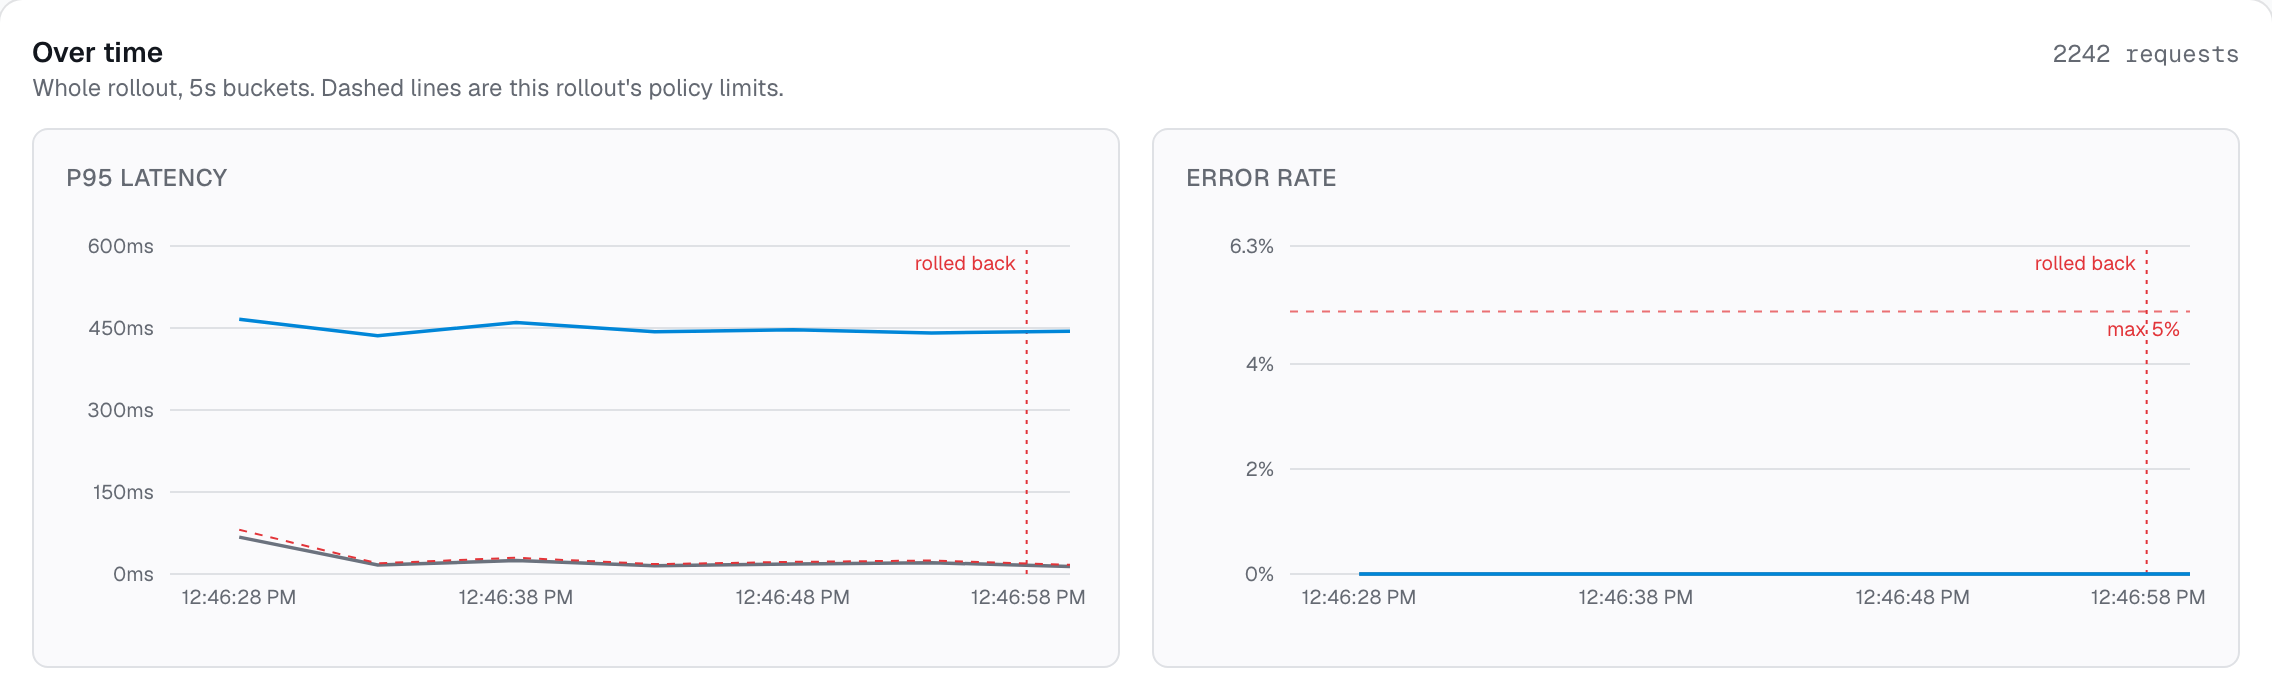
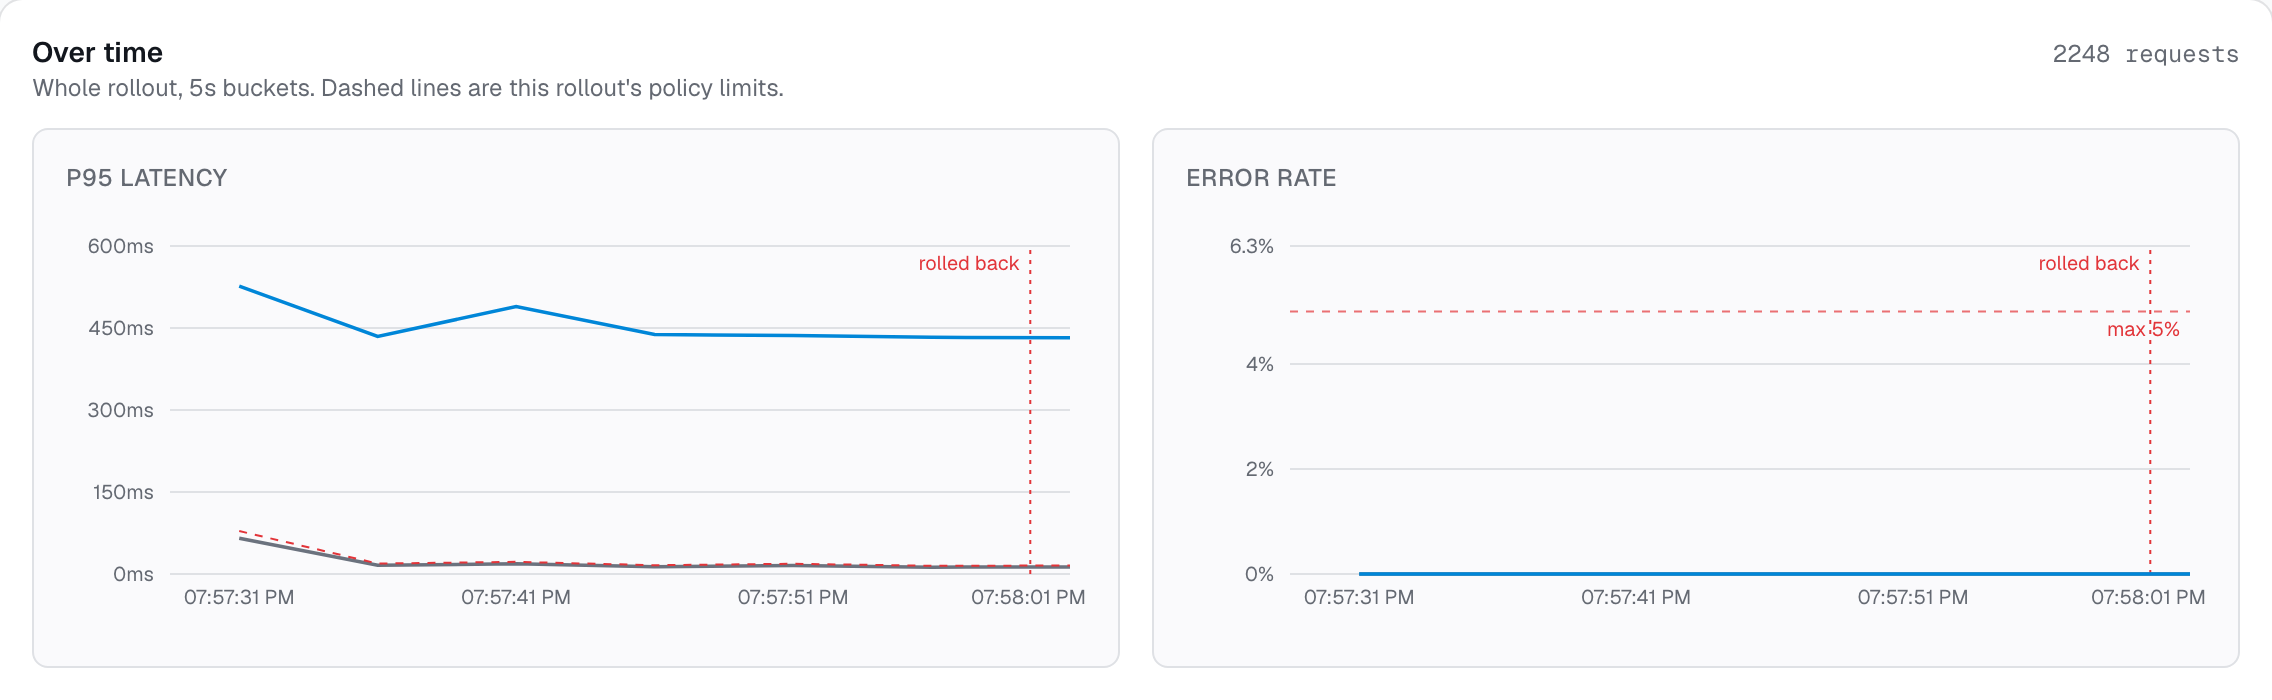
docs: recapture the evidence screenshots with drift and per-look levels
The policy table now shows feature_drift and the raised confidence level per look. The applied-policy panel and the rollout form gain the drift threshold (empty = off), and the README's check table and captions cover both features.

diff --git a/frontend/src/components/PolicyThresholds.tsx b/frontend/src/components/PolicyThresholds.tsx
@@ -24,8 +24,10 @@ export interface ThresholdField {
   max?: number;
   step: number;
   integer?: boolean;
-  get: (c: PolicyConfig) => number;
-  set: (c: PolicyConfig, v: number) => PolicyConfig;
+  /** Left empty, the check is switched off (sent as null). */
+  optional?: boolean;
+  get: (c: PolicyConfig) => number | null;
+  set: (c: PolicyConfig, v: number | null) => PolicyConfig;
 }
 
 export const GATE_FIELDS: ThresholdField[] = [
@@ -37,7 +39,7 @@ export const GATE_FIELDS: ThresholdField[] = [
     min: 0,
     step: 1,
     get: (c) => c.latency.p95_max_increase_percent,
-    set: (c, v) => ({ ...c, latency: { p95_max_increase_percent: v } }),
+    set: (c, v) => ({ ...c, latency: { p95_max_increase_percent: v ?? 0 } }),
   },
   {
     key: "errors",
@@ -48,7 +50,7 @@ export const GATE_FIELDS: ThresholdField[] = [
     max: 100,
     step: 0.5,
     get: (c) => c.reliability.max_error_rate_percent,
-    set: (c, v) => ({ ...c, reliability: { max_error_rate_percent: v } }),
+    set: (c, v) => ({ ...c, reliability: { max_error_rate_percent: v ?? 0 } }),
   },
   {
     key: "recall",
@@ -59,7 +61,19 @@ export const GATE_FIELDS: ThresholdField[] = [
     max: 1,
     step: 0.01,
     get: (c) => c.quality.minimum_recall,
-    set: (c, v) => ({ ...c, quality: { minimum_recall: v } }),
+    set: (c, v) => ({ ...c, quality: { minimum_recall: v ?? 0 } }),
+  },
+  {
+    key: "drift",
+    label: "Max feature drift (PSI)",
+    hint: "Canary inputs vs its training data, per feature. Empty switches it off.",
+    unit: "",
+    min: 0,
+    step: 0.05,
+    optional: true,
+    // Rollouts created before the drift check have no "drift" in their snapshot.
+    get: (c) => (c.drift as PolicyConfig["drift"] | undefined)?.max_feature_psi ?? null,
+    set: (c, v) => ({ ...c, drift: { max_feature_psi: v } }),
   },
 ];
 
@@ -73,7 +87,7 @@ export const EVIDENCE_FIELDS: ThresholdField[] = [
     step: 10,
     integer: true,
     get: (c) => c.minimum_requests,
-    set: (c, v) => ({ ...c, minimum_requests: v }),
+    set: (c, v) => ({ ...c, minimum_requests: v ?? 0 }),
   },
   {
     key: "evaluation_window_seconds",
@@ -84,7 +98,7 @@ export const EVIDENCE_FIELDS: ThresholdField[] = [
     step: 30,
     integer: true,
     get: (c) => c.evaluation_window_seconds,
-    set: (c, v) => ({ ...c, evaluation_window_seconds: v }),
+    set: (c, v) => ({ ...c, evaluation_window_seconds: v ?? 0 }),
   },
   {
     key: "confidence_level",
@@ -95,7 +109,7 @@ export const EVIDENCE_FIELDS: ThresholdField[] = [
     max: 0.999,
     step: 0.01,
     get: (c) => c.confidence_level,
-    set: (c, v) => ({ ...c, confidence_level: v }),
+    set: (c, v) => ({ ...c, confidence_level: v ?? 0 }),
   },
   {
     key: "minimum_labeled_samples",
@@ -106,7 +120,7 @@ export const EVIDENCE_FIELDS: ThresholdField[] = [
     step: 5,
     integer: true,
     get: (c) => c.minimum_labeled_samples,
-    set: (c, v) => ({ ...c, minimum_labeled_samples: v }),
+    set: (c, v) => ({ ...c, minimum_labeled_samples: v ?? 0 }),
   },
   {
     key: "minimum_label_coverage",
@@ -117,7 +131,7 @@ export const EVIDENCE_FIELDS: ThresholdField[] = [
     max: 1,
     step: 0.05,
     get: (c) => c.minimum_label_coverage,
-    set: (c, v) => ({ ...c, minimum_label_coverage: v }),
+    set: (c, v) => ({ ...c, minimum_label_coverage: v ?? 0 }),
   },
   {
     key: "minimum_positive_labels",
@@ -128,7 +142,7 @@ export const EVIDENCE_FIELDS: ThresholdField[] = [
     step: 5,
     integer: true,
     get: (c) => c.minimum_positive_labels,
-    set: (c, v) => ({ ...c, minimum_positive_labels: v }),
+    set: (c, v) => ({ ...c, minimum_positive_labels: v ?? 0 }),
   },
   {
     key: "label_maturity_seconds",
@@ -139,7 +153,7 @@ export const EVIDENCE_FIELDS: ThresholdField[] = [
     step: 15,
     integer: true,
     get: (c) => c.label_maturity_seconds,
-    set: (c, v) => ({ ...c, label_maturity_seconds: v }),
+    set: (c, v) => ({ ...c, label_maturity_seconds: v ?? 0 }),
   },
   {
     key: "max_inconclusive_retries",
@@ -150,7 +164,7 @@ export const EVIDENCE_FIELDS: ThresholdField[] = [
     step: 1,
     integer: true,
     get: (c) => c.max_inconclusive_retries,
-    set: (c, v) => ({ ...c, max_inconclusive_retries: v }),
+    set: (c, v) => ({ ...c, max_inconclusive_retries: v ?? 0 }),
   },
 ];
 
@@ -158,12 +172,14 @@ const ALL_FIELDS = [...GATE_FIELDS, ...EVIDENCE_FIELDS];
 
 export type ThresholdDrafts = Record<string, string>;
 
-function parse(field: ThresholdField, raw: string): number | null {
-  if (raw.trim() === "") return null;
+/** The typed value, null for an optional field left empty (switched off), or
+ * undefined when it isn't valid. */
+function parse(field: ThresholdField, raw: string): number | null | undefined {
+  if (raw.trim() === "") return field.optional ? null : undefined;
   const value = Number(raw);
-  if (!Number.isFinite(value)) return null;
-  if (field.integer && !Number.isInteger(value)) return null;
-  if (value < field.min || (field.max != null && value > field.max)) return null;
+  if (!Number.isFinite(value)) return undefined;
+  if (field.integer && !Number.isInteger(value)) return undefined;
+  if (value < field.min || (field.max != null && value > field.max)) return undefined;
   return value;
 }
 
@@ -177,7 +193,7 @@ export function resolveThresholds(defaults: PolicyConfig, drafts: ThresholdDraft
     const raw = drafts[field.key];
     if (raw == null) continue;
     const value = parse(field, raw);
-    if (value == null) {
+    if (value === undefined) {
       invalid.add(field.key);
       continue;
     }
@@ -213,7 +229,7 @@ function FieldRow({
           {field.label}
         </Label>
         {changed ? (
-          <span className="font-mono text-[10px] text-muted-foreground tabular">default {fallback}</span>
+          <span className="font-mono text-[10px] text-muted-foreground tabular">default {fallback ?? "off"}</span>
         ) : null}
       </div>
       <div className="relative">
@@ -221,7 +237,8 @@ function FieldRow({
           id={id}
           inputMode="decimal"
           className={cn("h-8 pr-9 font-mono text-sm tabular", changed && "border-canary/60")}
-          value={drafts[field.key] ?? String(fallback)}
+          value={drafts[field.key] ?? (fallback == null ? "" : String(fallback))}
+          placeholder={field.optional ? "off" : undefined}
           aria-invalid={invalid}
           onChange={(event) => onChange(field.key, event.target.value)}
         />
@@ -282,7 +299,7 @@ export function PolicyThresholds({
         <div id="policy-thresholds" className="space-y-4 border-t px-3 py-3">
           <section className="space-y-2">
             <h4 className="text-[11px] font-medium tracking-wide text-muted-foreground uppercase">Decision gates</h4>
-            <div className="grid gap-3 sm:grid-cols-3">
+            <div className="grid gap-3 sm:grid-cols-2">
               {GATE_FIELDS.map((field) => (
                 <FieldRow
                   key={field.key}

diff --git a/frontend/src/components/AppliedPolicy.tsx b/frontend/src/components/AppliedPolicy.tsx
@@ -22,14 +22,14 @@ export function AppliedPolicy({ config }: { config: PolicyConfig | null }) {
           {custom ? (
             <span
               className="rounded bg-canary/15 px-1.5 text-[10px] text-canary"
-              title={`Default is ${defaults ? field.get(defaults) : "?"}${field.unit}`}
+              title={`Default is ${defaults ? (field.get(defaults) ?? "off") : "?"}${field.unit}`}
             >
               custom
             </span>
           ) : null}
           <span className={cn("font-mono text-xs tabular", custom && "text-foreground")}>
-            {value}
-            {field.unit ? <span className="text-muted-foreground"> {field.unit}</span> : null}
+            {value ?? "off"}
+            {field.unit && value != null ? <span className="text-muted-foreground"> {field.unit}</span> : null}
           </span>
         </dd>
       </div>

diff --git a/README.md b/README.md
@@ -89,7 +89,8 @@ and the moment the worker rolled it back.
 
 Each policy check stores the interval it measured, not just a verdict. The strip
 shows the confidence interval against the limit: entirely past it means **FAIL**,
-straddling it means **INCONCLUSIVE**.
+straddling it means **INCONCLUSIVE**. The explanation says which look of the rollout
+the interval belongs to, and `feature_drift` names the feature that moved most.
 
 ![Policy checks with observed values, confidence intervals drawn against each limit, p-values and plain-English explanations](docs/screenshots/policy-evidence.png)
 
@@ -182,12 +183,15 @@ crash or restart loses nothing.
 | `max_error_rate` | Canary 5xx share | Wilson score interval, exact binomial test |
 | `latency_p95_increase` | Canary p95 vs stable p95, over successful responses | Bootstrap interval of the p95 ratio, one-sided Mann-Whitney U |
 | `minimum_recall` | Recall over matured labels | Wilson score interval, exact binomial test |
+| `feature_drift` | Canary inputs vs its training data, per feature, no labels needed | PSI corrected for sample size, chi-square test with Bonferroni across features |
 | `minimum_requests` | Traffic on both sides | gate |
 | `minimum_labeled_samples` · `minimum_label_coverage` · `minimum_positive_labels` | Is there enough ground truth to judge quality? | gates |
 
 The overall verdict is **FAIL > INCONCLUSIVE > PASS**: one failing check rolls the
 canary back, one undecided check holds it where it is. Thresholds and the
-confidence level (95% by default) are set per rollout.
+confidence level (95% by default) are set per rollout. The level covers the whole
+rollout, not each evaluation: the first look is held to 97.5%, later ones to more,
+so checking every cycle doesn't add up to a likely false rollback.
 
 ### Rollout lifecycle
 
